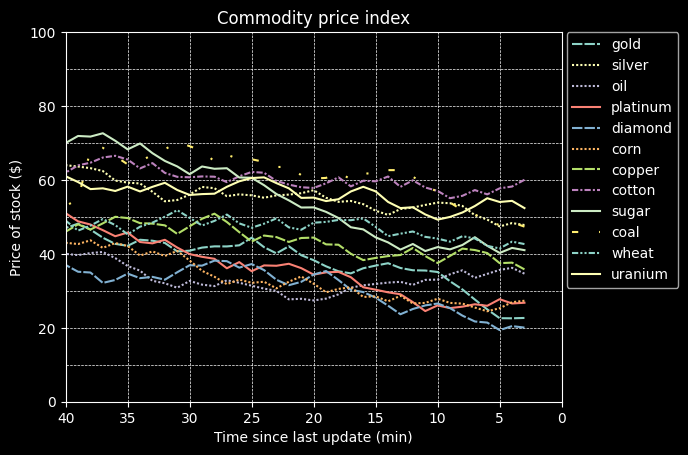
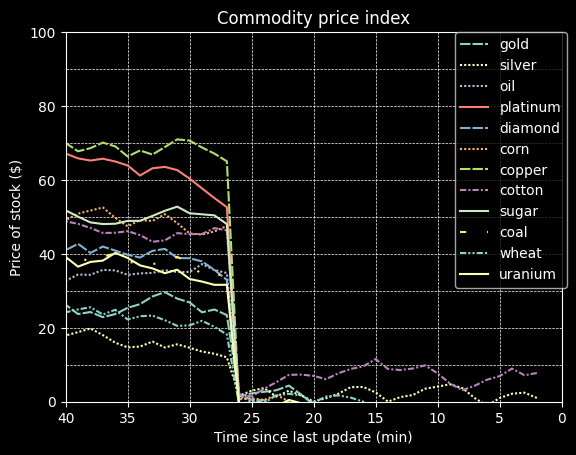
Cleaned up project folder

diff --git a/stocksnew.py b/stocksnew.py
@@ -52,7 +52,10 @@ logging.basicConfig(level=logging.INFO)
 bot = commands.Bot(command_prefix = '.')
 bot.remove_command('help')
 
-filelocation = '/home/ubuntu/Stocks_Revamped/'
+filelocation = '/Users/adityakannan/PythonProjects/Stocks_Revamped/'
+
+# '/Users/adityakannan/PythonProjects/Stocks_Revamped/'
+# '/home/ubuntu/Stocks_Revamped/'
 
 with open(filelocation + 'key.json','r') as keys:
     key = json.load(keys)
@@ -180,14 +183,19 @@ def displayprices(): #asynchronous because it needs to run periodically while re
     for x in prices:
         prices[x].reverse()
         reversehistory = len(prices[x])-history
+        print(history)
+        print(reversehistory)
         last = 1
-        if history == len(prices[x])-1: # spoof an extra step at 40 because there are 41 x axis points (0,40) but only 40 data points in price[x]
-            reversehistory = len(prices[x])-history-1
-            prices[x].append(prices[x][len(prices[x]-1)])
+        if history == len(prices[x]): # spoof an extra step at 40 because there are 41 x axis points (0,40) but only 40 data points in price[x]
+            # reversehistory = len(prices[x])-history-1
+            prices[x].append(prices[x][len(prices[x][history])])
             last = 0
-        xaxis = np.arange(reversehistory+last,len(prices[x])+1,1)
+        xaxis = np.arange(reversehistory+last,len(prices[x])+1,1) #because np.arange(1,3,1) = [1,2], need 40
         plt.plot(xaxis,prices[x][reversehistory:],linestyle=linestyles[count]) # xaxis 3, reverse 2
         count += 1
+    
+    print(prices[x][reversehistory:])
+    print(xaxis)
 
     plt.axis([40,0,0,100])
     plt.vlines(range(40, 0, -5), 0, 100, linestyles='dashed', linewidth=0.5,colors='#fff')
@@ -365,7 +373,6 @@ def leaderboardupdate():
 async def on_ready(): #needs to *start* with asyncio(time) because the prices are randomized when the script begins
     #await bot.change_presence(activity=discord.Game(name='(.help)'))
 
-    resetprices()
     logger("reset")
 
     print('Stockbroker is ready.')
@@ -720,8 +727,12 @@ async def referral(ctx,type=None):
 
 @bot.command()
 @commands.is_owner()
-async def test(ctx):
-    await updateprices()
+async def test(ctx,repeat=None):
+    count = 0
+    while count <= int(repeat):
+        await updateprices()
+        count += 1
+    await ctx.send('Updated market ' + str(count) + ' times.')
 
 @bot.command()
 @commands.is_owner()
